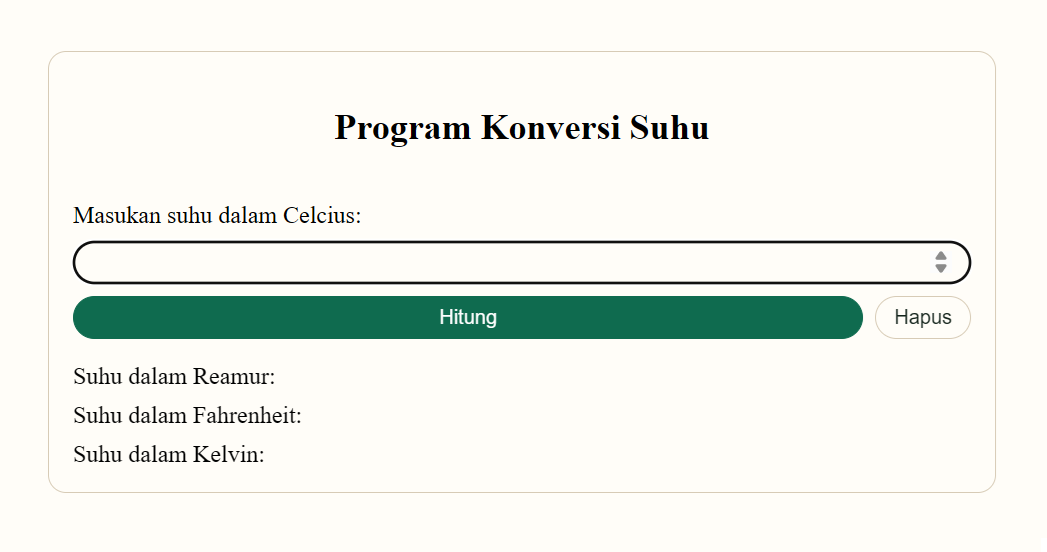
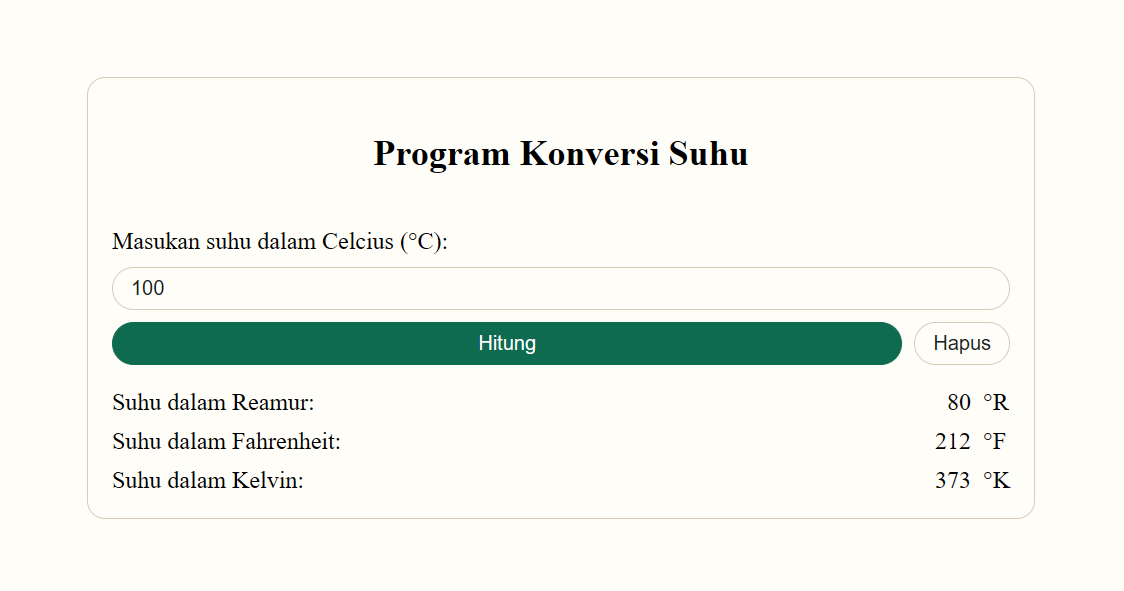
docs: add styling

diff --git a/index.html b/index.html
@@ -11,7 +11,7 @@
         <div class="card">
             <h2 class="heading">Program Konversi Suhu</h2>
             <div class="input">
-                <label for="suhuCelcius">Masukan suhu dalam Celcius:</label>
+                <label for="suhuCelcius">Masukan suhu dalam Celcius (°C):</label>
                 <input id="inputCelcius" type="number" autofocus>
                 <div class="buttons">
                     <button id="hitung">Hitung</button>
@@ -19,14 +19,20 @@
                 </div>
             </div>
             <div class="output">
-                <div>
-                    Suhu dalam Reamur:&nbsp;<span id="reamur"></span>
+                <div class="output-text">
+                    <span>Suhu dalam Reamur:</span>
+                    <span>Suhu dalam Fahrenheit:</span>
+                    <span>Suhu dalam Kelvin:</span>
                 </div>
-                <div>
-                    Suhu dalam Fahrenheit:&nbsp;<span id="fahrenheit"></span>
+                <div class="output-value">
+                    <span id="reamur">-</span>
+                    <span id="fahrenheit">-</span>
+                    <span id="kelvin">-</span>
                 </div>
-                <div>
-                    Suhu dalam Kelvin:&nbsp;<span id="kelvin"></span>
+                <div class="output-unit">
+                    <span id="reamur">°R</span>
+                    <span id="fahrenheit">°F</span>
+                    <span id="kelvin">°K</span>
                 </div>
             </div>
         </div>

diff --git a/style.css b/style.css
@@ -38,12 +38,6 @@ body {
     gap: 8px;
 }
 
-.output {
-    display: flex;
-    flex-direction: column;
-    gap: 8px;
-}
-
 .buttons {
     display: flex;
     flex-direction: row;
@@ -79,4 +73,36 @@ body {
     margin-left: auto;
     padding: 6px 12px;
     justify-content: center;
+}
+
+.output {
+    display: flex;
+    flex-direction: row;
+    gap: 8px;
+}
+
+.output-text {
+    display: flex;
+    flex-direction: column;
+    gap: 8px;
+}
+
+.output-value {
+    display: flex;
+    flex-direction: column;
+    gap: 8px;
+    width: auto;
+    justify-content: flex-end;
+    margin-left: auto;
+}
+
+.output-value > span {
+    margin-left: auto;
+}
+
+.output-unit {
+    display: flex;
+    flex-direction: column;
+    gap: 8px;
+    width: fit-content;
 }

diff --git a/index.js b/index.js
@@ -14,7 +14,7 @@ hitung.addEventListener("click", (event) => {
 
 hapus.addEventListener("click", (event) => {
     document.getElementById("inputCelcius").value = "";
-    document.getElementById("reamur").textContent = "";
-    document.getElementById("fahrenheit").textContent = "";
-    document.getElementById("kelvin").textContent = "";
+    document.getElementById("reamur").textContent = "-";
+    document.getElementById("fahrenheit").textContent = "-";
+    document.getElementById("kelvin").textContent = "-";
 });
